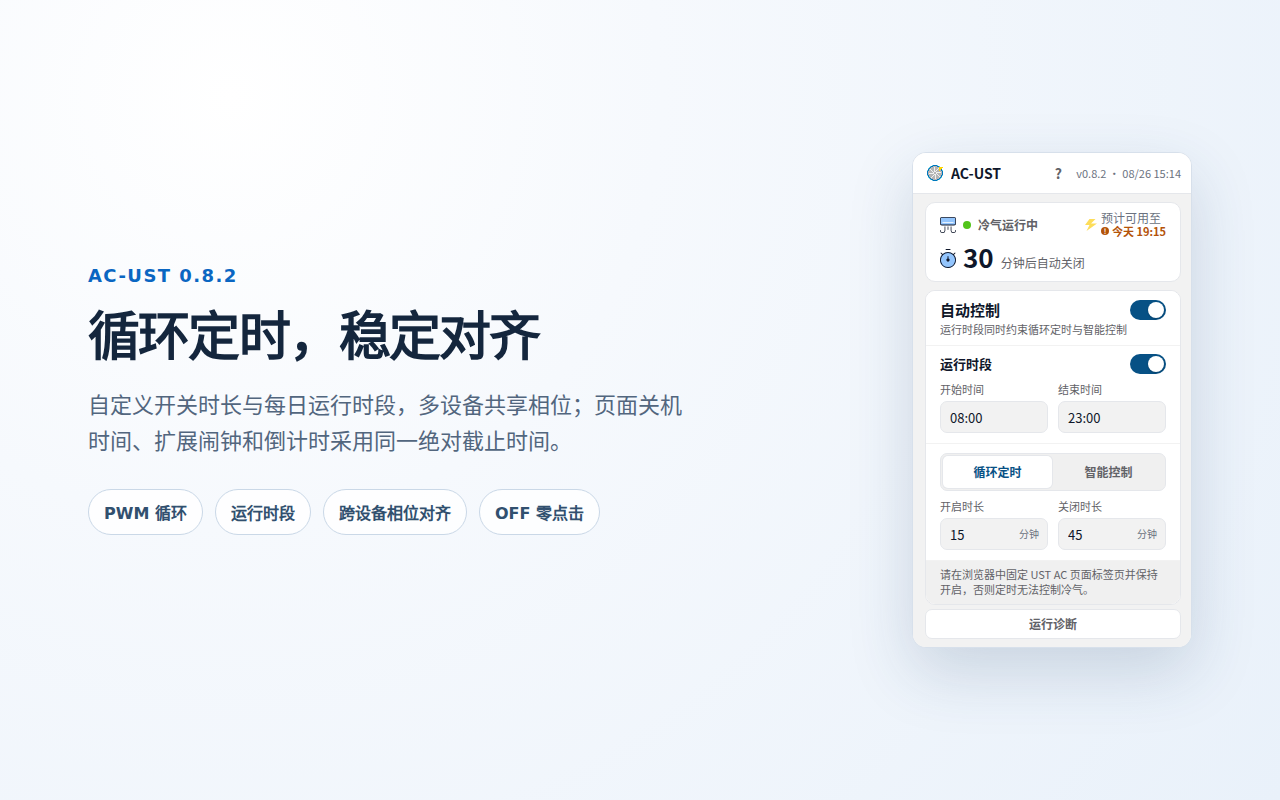
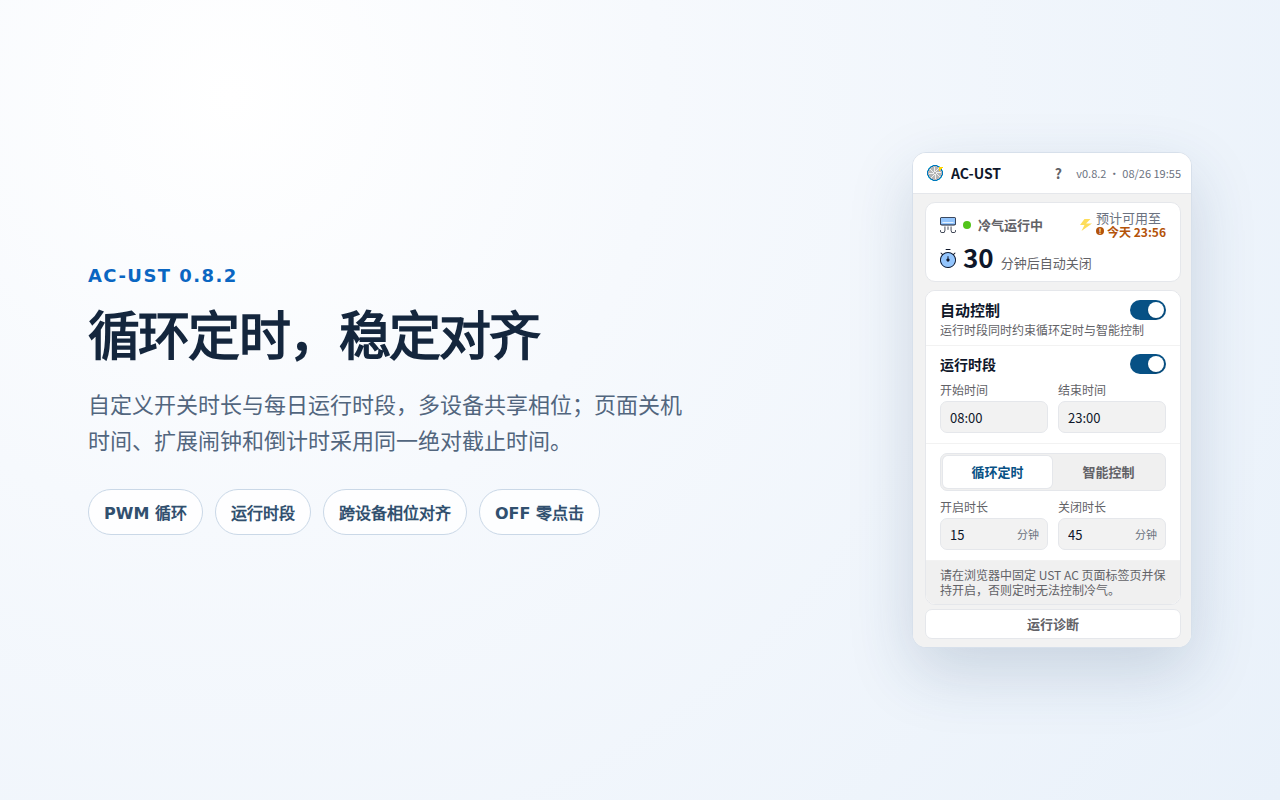
style(popup): enlarge Chinese text / 放大中文字体

diff --git a/popup.css b/popup.css
@@ -974,3 +974,42 @@ a:focus-visible,
 .mode-detail[hidden] {
   display: none;
 }
+
+/* CJK glyphs read smaller than Latin at the same nominal size. */
+html:lang(zh) :is(
+  #activeHoursSectionHeader h3,
+  .section-title
+) {
+  font-size: 14px;
+}
+
+html:lang(zh) :is(
+  .ac-indicator,
+  .balance-estimate-prefix,
+  .hero-caption,
+  .hero-idle,
+  .safetynet-warning,
+  .mode-choice,
+  .btn-diagnose,
+  .diag-copy
+) {
+  font-size: 13px;
+}
+
+html:lang(zh) :is(
+  .balance-estimate,
+  .automation-heading p,
+  .field-label,
+  .settings-hint,
+  .status,
+  .diagnose-result,
+  .diag-bar-title,
+  .smart-end,
+  .smart-readout-label
+) {
+  font-size: 12px;
+}
+
+html:lang(zh) .field-unit {
+  font-size: 11px;
+}

diff --git a/CHANGELOG.md b/CHANGELOG.md
@@ -7,7 +7,7 @@
 - 补齐 Popup 页面自诊断：报告文档加载/可见状态、视口与内容尺寸、横向溢出、控件与权威 `schedule` 是否同步，以及 Popup→Service Worker 保活连接；设置提交中的瞬态会跳过同步判定，正常纵向滚动不报错，也不采集 URL、DOM 文本或账号信息。
 - 重构诊断输出：当前错误、警告与本次修复先汇总，再用稳定错误码、问题域、现场证据和唯一下一步定位首要问题；自动控制关闭、运行时段暂停与智能控制未启用按预期状态展示，不再制造假红灯。后台闹钟自愈返回修复前快照与逐项修复记录，诊断可区分原有闹钟和本次补建；历史异常继续单独展示，不参与当前健康度。
 - 加固自动控制竞态与页面适配：本地设置和远端同步共用串行事务，sync busy 时保留最新 mailbox、拒绝陈旧版本并对瞬时读取失败有界重试；页面关机证明只有目标仍在未来才可复用，智能灵敏度请求在 single-flight 或 PWM 占用期间保留尾随重算，且仅在最终设置提交成功后执行。popup 丢弃提交期间的旧轮询与旧响应、同时锁定两个互斥模式，并在运行时段暂停时隐藏余额耗尽估算。页面原生对话框仅在单次 AC 点击栈内代理，隐藏确认框、歧义 AC 开关和无法唯一关联的 `Power-off after` picker/OK 均失败关闭。
-- 重构弹窗自动控制信息架构：新增独立总开关统一启停，循环定时与智能控制改为只负责选型的等宽分段单选；关闭时仍可预设模式与参数。运行时段固定使用可访问的 24 小时 `HH:mm` 输入，分钟数非法时原位阻止提交且保留原值；popup 收窄至 280px，并同步紧凑分段控件、商店截图外框与中英文标签。
+- 重构弹窗自动控制信息架构：新增独立总开关统一启停，循环定时与智能控制改为只负责选型的等宽分段单选；关闭时仍可预设模式与参数。运行时段固定使用可访问的 24 小时 `HH:mm` 输入，分钟数非法时原位阻止提交且保留原值；popup 收窄至 280px，中文小号文字按字形视觉补偿 1px，并同步紧凑分段控件、商店截图外框与中英文标签。
 - 将「运行时段」从循环定时中抽离为循环定时与智能控制共用的独立自动执行门禁：采用同日半开区间 `[start,end)`，时段外保留 `schedule.enabled` 与所选模式，仅暂停 PWM、角标和看门狗运行闹钟，并通过页面 `Power-off after` 安全停机。重新进入后普通循环可立即恢复，智能控制仍等待下一次 `HH:00`/`HH:30` 首分钟；天气预取与页面关机重试不受暂停影响，自动控制已关闭时单独编辑时段也不会误触发停机。
 - 启动、跨设备同步、页面定时器采纳、看门狗、诊断自愈、时钟修复与灵敏度重设统一遵守运行时段门禁；自动 ON 在最终页面消息前、运行闹钟在创建前后再次复检，封堵边界切换期间的异步竞态。退出时段的 runtime 重置到首轮持久化之间会临时封锁旧 storage 回灌；popup 在暂停态保留模式开关、隐藏倒计时、忽略泄漏闹钟的时钟投影，并把运行闹钟修复统一委派给后台，避免诊断绕过最终门禁。暂停或显式重启会取消主世界尚未收敛的自动 ON 递归；安全关机使用独立 revision，恢复后旧验证和旧重试不能覆盖新周期。
 - 修复自动 ON 触发页面 BFCache 导航、消息端口关闭时的恢复竞态：旧业务子页即使仍为 `complete` 也不再被误判为控制页已就绪；同一控制标签必须真正回到精确 home 并完成加载后，才进行最多一次幂等开机重试。
